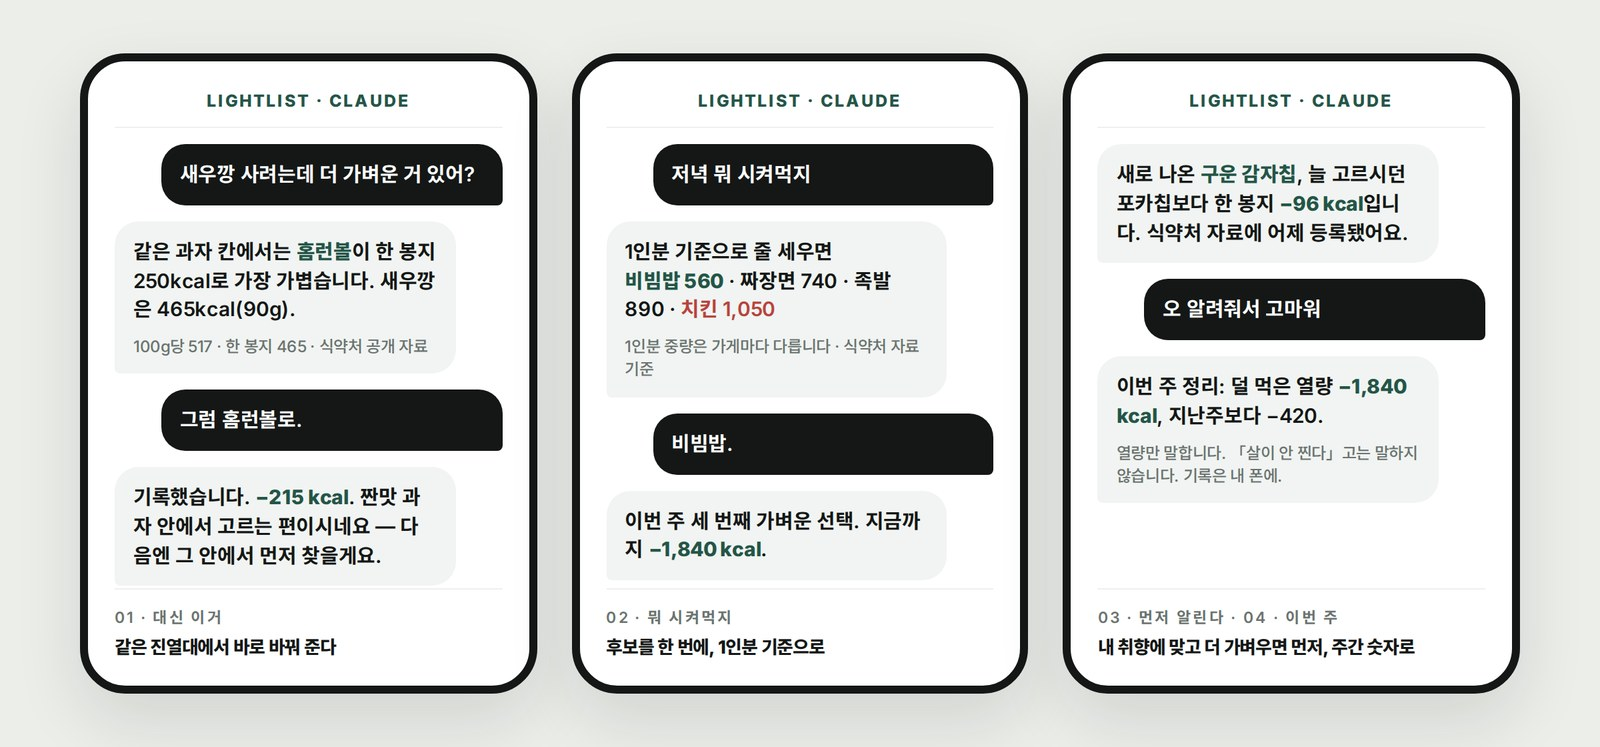
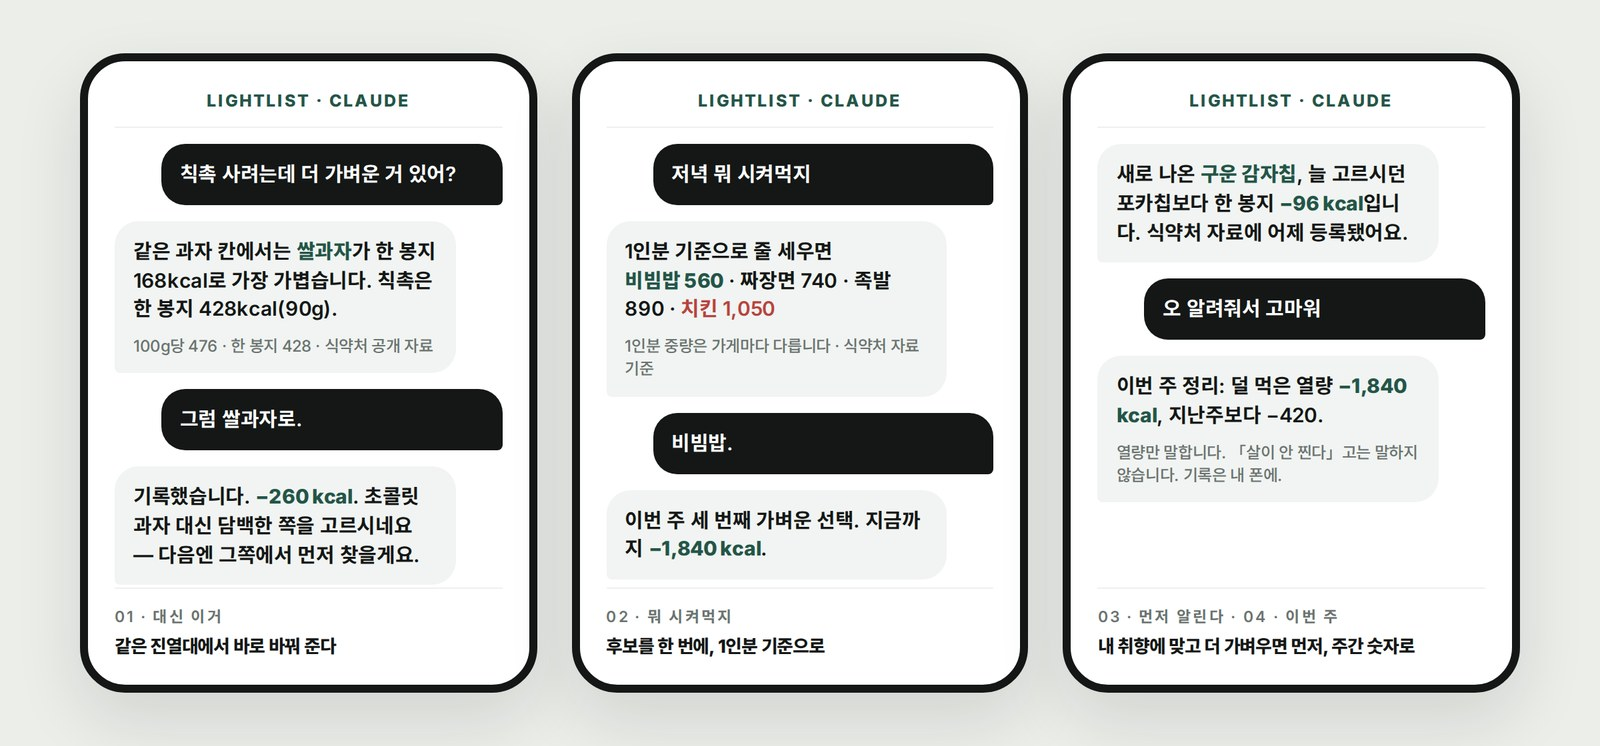
Light 소개문·02 그래픽 중복 제거, EN 그래픽
Claude-Session: https://claude.ai/code/session_01WsGPQczCo9oamQacoYURTj

diff --git a/en/products/light/index.html b/en/products/light/index.html
@@ -1,4 +1,7 @@
-<!doctype html><html lang="en"><head><meta charset="utf-8"><meta name="viewport" content="width=device-width,initial-scale=1"><title>AP Light — AP Holdings</title><meta name="description" content="Personal criteria. Candidate comparison. Explainable trade-offs."><meta name="robots" content="index,follow"><link rel="canonical" href="https://www.apholdings.kr/en/products/light/"><link rel="alternate" hreflang="ko" href="https://www.apholdings.kr/ko/products/light/"><link rel="alternate" hreflang="en" href="https://www.apholdings.kr/en/products/light/"><link rel="alternate" hreflang="x-default" href="https://www.apholdings.kr/en/products/light/"><meta property="og:type" content="website"><meta property="og:site_name" content="AP Holdings"><meta property="og:title" content="AP Light — AP Holdings"><meta property="og:description" content="Personal criteria. Candidate comparison. Explainable trade-offs."><meta property="og:url" content="https://www.apholdings.kr/en/products/light/"><meta property="og:locale" content="en_US"><meta name="theme-color" content="#ffffff"><link rel="icon" href="/img/ap_mark.png"><link rel="stylesheet" href="/assets/v2/site.css?v=2.8"><script defer src="/assets/v2/site.js?v=2.4"></script><script type="application/ld+json">{"@context": "https://schema.org", "@type": "Organization", "name": "AP Holdings", "url": "https://www.apholdings.kr", "logo": "https://www.apholdings.kr/img/ap_mark.png", "description": "Personal criteria. Candidate comparison. Explainable trade-offs.", "email": "cksals00@gmail.com", "sameAs": ["https://www.instagram.com/lia_park55/", "https://www.tiktok.com/@lia_park55"]}</script></head><body id="top"><a class="skip" href="#main">Skip to content</a><header class="site-header"><div class="wrap header-inner"><a class="brand" href="/en/" aria-label="AP Holdings home"><span class="brand-mark"><img src="/img/ap_mark.png" alt="" width="29" height="14"></span>AP HOLDINGS</a><nav class="desktop-nav" aria-label="Main"><a href="/en/#businesses">Services</a><a href="/en/#portfolio">Products</a><a href="/en/about/">About</a><a href="/en/ir/" class="ir-link">Investors</a><a href="/en/#contact">Contact</a></nav><details class="language"><summary aria-label="Language">EN</summary><ul><li><a href="/ko/products/light/" lang="ko">한국어</a></li><li><a href="/en/products/light/" lang="en" aria-current="page">English</a></li><li><a href="/vi/" lang="vi">Tiếng Việt<small>In preparation</small></a></li><li><a href="/ja/" lang="ja">日本語<small>In preparation</small></a></li><li><a href="/zh-cn/" lang="zh-cn">简体中文<small>In preparation</small></a></li><li><a href="/fr/" lang="fr">Français<small>In preparation</small></a></li></ul></details><details class="mobile-menu"><summary>Menu</summary><nav aria-label="Mobile"><a href="/en/#businesses">Services</a><a href="/en/#portfolio">Products</a><a href="/en/about/">About</a><a href="/en/ir/" class="ir-link">Investors</a><a href="/en/#contact">Contact</a></nav></details></div></header><main id="main"><section class="page-hero"><div class="wrap"><div class="breadcrumb"><a class="" href="/en/#portfolio">Products</a> / AP Light</div><span class="status">In development</span><h1 class="product-name">AP Light</h1><h2>Understand what fits you.</h2><p class="lead">Personal criteria. Candidate comparison. Explainable trade-offs.</p></div></section><section class="section"><div class="wrap"><figure style="margin:0 0 45px"><div class="product-media" style="background:transparent;padding:0"><video autoplay muted loop playsinline preload="metadata" poster="/media/lightlist_frame.jpg" src="/media/lightlist_hero.mp4" aria-label="AP Light" style="width:100%;border-radius:24px"></video></div></figure><div class="product-body" hidden><div class="actions"><a class="button" href="/business/lightlist-connect.html">Existing connector access</a></div></div></div></section><section class="section anchor" id="scene"><div class="wrap"><div class="section-intro"><div><span class="number">01 · One scene</span><h2>Buying Saewookkang —
+<!doctype html><html lang="en"><head><meta charset="utf-8"><meta name="viewport" content="width=device-width,initial-scale=1"><title>AP Light — AP Holdings</title><meta name="description" content="How many calories in the bag you&#x27;re about to buy.
+And the lighter option on the same shelf."><meta name="robots" content="index,follow"><link rel="canonical" href="https://www.apholdings.kr/en/products/light/"><link rel="alternate" hreflang="ko" href="https://www.apholdings.kr/ko/products/light/"><link rel="alternate" hreflang="en" href="https://www.apholdings.kr/en/products/light/"><link rel="alternate" hreflang="x-default" href="https://www.apholdings.kr/en/products/light/"><meta property="og:type" content="website"><meta property="og:site_name" content="AP Holdings"><meta property="og:title" content="AP Light — AP Holdings"><meta property="og:description" content="How many calories in the bag you&#x27;re about to buy.
+And the lighter option on the same shelf."><meta property="og:url" content="https://www.apholdings.kr/en/products/light/"><meta property="og:locale" content="en_US"><meta name="theme-color" content="#ffffff"><link rel="icon" href="/img/ap_mark.png"><link rel="stylesheet" href="/assets/v2/site.css?v=2.8"><script defer src="/assets/v2/site.js?v=2.4"></script><script type="application/ld+json">{"@context": "https://schema.org", "@type": "Organization", "name": "AP Holdings", "url": "https://www.apholdings.kr", "logo": "https://www.apholdings.kr/img/ap_mark.png", "description": "How many calories in the bag you're about to buy.\nAnd the lighter option on the same shelf.", "email": "cksals00@gmail.com", "sameAs": ["https://www.instagram.com/lia_park55/", "https://www.tiktok.com/@lia_park55"]}</script></head><body id="top"><a class="skip" href="#main">Skip to content</a><header class="site-header"><div class="wrap header-inner"><a class="brand" href="/en/" aria-label="AP Holdings home"><span class="brand-mark"><img src="/img/ap_mark.png" alt="" width="29" height="14"></span>AP HOLDINGS</a><nav class="desktop-nav" aria-label="Main"><a href="/en/#businesses">Services</a><a href="/en/#portfolio">Products</a><a href="/en/about/">About</a><a href="/en/ir/" class="ir-link">Investors</a><a href="/en/#contact">Contact</a></nav><details class="language"><summary aria-label="Language">EN</summary><ul><li><a href="/ko/products/light/" lang="ko">한국어</a></li><li><a href="/en/products/light/" lang="en" aria-current="page">English</a></li><li><a href="/vi/" lang="vi">Tiếng Việt<small>In preparation</small></a></li><li><a href="/ja/" lang="ja">日本語<small>In preparation</small></a></li><li><a href="/zh-cn/" lang="zh-cn">简体中文<small>In preparation</small></a></li><li><a href="/fr/" lang="fr">Français<small>In preparation</small></a></li></ul></details><details class="mobile-menu"><summary>Menu</summary><nav aria-label="Mobile"><a href="/en/#businesses">Services</a><a href="/en/#portfolio">Products</a><a href="/en/about/">About</a><a href="/en/ir/" class="ir-link">Investors</a><a href="/en/#contact">Contact</a></nav></details></div></header><main id="main"><section class="page-hero"><div class="wrap"><div class="breadcrumb"><a class="" href="/en/#portfolio">Products</a> / AP Light</div><span class="status">In development</span><h1 class="product-name">AP Light</h1><h2>Understand what fits you.</h2><p class="lead">How many calories in the bag you&#x27;re about to buy.
+And the lighter option on the same shelf.</p></div></section><section class="section"><div class="wrap"><figure style="margin:0 0 45px"><div class="product-media" style="background:transparent;padding:0"><video autoplay muted loop playsinline preload="metadata" poster="/media/lightlist_frame.jpg" src="/media/lightlist_hero.mp4" aria-label="AP Light" style="width:100%;border-radius:24px"></video></div></figure><div class="product-body" hidden><div class="actions"><a class="button" href="/business/lightlist-connect.html">Existing connector access</a></div></div></div></section><section class="section anchor" id="scene"><div class="wrap"><div class="section-intro"><div><span class="number">01 · One scene</span><h2>Buying Saewookkang —
 anything lighter?</h2></div><div class="intro-side"><p>Any AI asks LightList first instead of guessing. Calories per 100g and per bag, always together.</p></div></div><figure style="margin:0 0 45px"><div class="product-media" style="background:transparent;padding:0"><img src="/media/gfx/light_scene_en.jpg" alt="One sentence → AI → LightList weighs per 100g and per bag together → the lighter pick" width="1600" height="900" loading="lazy" style="width:100%;max-height:none;border-radius:24px"></div></figure></div></section><section class="section soft anchor" id="learn"><div class="wrap"><div class="section-intro"><div><span class="number">02 · The more you choose</span><h2>The more you choose,
-the sooner it suggests.</h2></div><div class="intro-side"><p>As lighter picks accumulate, the AI learns your taste and calorie budget. It picks for you, ranks, and tells you first.</p><p class="note">Calories only · records stay on my phone · never says “you won&#x27;t gain weight”</p></div></div><figure style="margin:0 0 45px"><div class="product-media" style="background:transparent;padding:0"><img src="/media/gfx/light_learn.jpg" alt="LightList conversations — swap it · what to order · told first · this week&#x27;s numbers" width="1600" height="900" loading="lazy" style="width:100%;max-height:none;border-radius:24px"></div></figure></div></section><section class="section soft anchor" id="today"><div class="wrap"><div class="cta-block"><span class="number">03 · Today</span><h2>Today, in Claude.</h2><p>One line of address connects it to Claude.
+the sooner it suggests.</h2></div><div class="intro-side"><p>As lighter picks accumulate, the AI learns your taste and calorie budget. It picks for you, ranks, and tells you first.</p><p class="note">Calories only · records stay on my phone · never says “you won&#x27;t gain weight”</p></div></div><figure style="margin:0 0 45px"><div class="product-media" style="background:transparent;padding:0"><img src="/media/gfx/light_learn_en.jpg" alt="LightList conversations — swap it · what to order · told first · this week&#x27;s numbers" width="1600" height="900" loading="lazy" style="width:100%;max-height:none;border-radius:24px"></div></figure></div></section><section class="section soft anchor" id="today"><div class="wrap"><div class="cta-block"><span class="number">03 · Today</span><h2>Today, in Claude.</h2><p>One line of address connects it to Claude.
 Calories per 100g and per bag, always together.</p><div class="actions"><a class="button primary" href="/business/lightlist-connect.html">Connect to Claude</a><a class="button" href="/ko/products/safe/">Allergens and avoid lists: AP Safe</a></div><p class="note">App · ChatGPT · Gemini — coming later</p></div></div></section></main><footer class="site-footer"><div class="wrap"><div class="footer-contact" id="contact"><div><span class="eyebrow">CONTACT</span><h3>Build with AP.</h3><p>Let’s discuss product and technology, expert advisory, brand and commerce, global distribution, education and content, craft and artist collaboration, and pilots.</p></div><div><a class="contact-email" href="mailto:cksals00@gmail.com">cksals00@gmail.com</a><a class="button primary" href="mailto:cksals00@gmail.com?subject=%5BAP%20Holdings%5D%20Partnership%20enquiry">Contact AP Holdings</a></div></div><div class="footer-top"><a class="brand" href="/en/" aria-label="AP Holdings home"><span class="brand-mark"><img src="/img/ap_mark.png" alt="" width="29" height="14"></span>AP HOLDINGS</a><div class="footer-map"><div><b>AP Holdings</b><a class="" href="/en/about/">About</a><a class="" href="/en/ir/">IR / INVESTORS</a><a class="" href="/en/lab/">Founder’s Lab</a></div><div><b>Decision Intelligence</b><a class="" href="/en/products/safe/">AP Safe</a><a class="" href="/en/products/light/">AP Light</a><a class="" href="/en/products/revenue/">AP Revenue</a><a class="" href="/en/products/travel/">AP Travel</a></div><div><b>Commerce</b><a class="" href="/en/products/select/">AP SELECT</a><a class="" href="/en/products/commerce/">Global K-Commerce</a><a class="" href="/en/products/liaselect/">Lia Select</a><a class="" href="/en/products/craft/">AP K-Craft</a><a class="" href="/en/products/lia/">LIA</a></div><div><b>Play &amp; Learn</b><a class="" href="/en/products/rgrg/">RGRG</a><a class="" href="/en/products/cubs/">Hangeul Cubs</a><a class="" href="/en/products/lastwave/">LAST WAVE</a></div><div><b>Connectors</b><a class="" href="/business/safelist-connect.html">Safelist · Claude</a><a class="" href="/business/lightlist-connect.html">Lightlist · Claude</a></div></div></div><ul class="footer-policies" aria-label="Privacy policies"><li class="pol-label">App privacy policies</li><li><a class="" href="/safelist/privacy.html">Safelist</a></li><li><a class="" href="/hangeulcubs_privacy.html">Hangeul Cubs</a></li><li><a class="" href="/rgrg/privacy.html">RGRG</a></li><li><a class="" href="/irongrade/privacy.html">IRON GRADE</a></li><li><a class="" href="/theotherhours_privacy.html">The Other Hours</a></li><li><a class="" href="/kfan_privacy.html">K-Concert Trip</a></li><li><a class="" href="/privacy.html">나의 첫투자</a></li><li><a class="" href="/kscan/privacy.html">K-Scan</a></li><li><a class="" href="/goyo/privacy.html">Goyo</a></li></ul><div class="footer-bottom"><span>© 2026 AP Holdings. All rights reserved.</span><span>Built in Korea. Designed for the world.</span><a class="" href="#top">Back to top</a></div></div></footer></body></html>

diff --git a/ko/products/light/index.html b/ko/products/light/index.html
@@ -1,4 +1,7 @@
-<!doctype html><html lang="ko"><head><meta charset="utf-8"><meta name="viewport" content="width=device-width,initial-scale=1"><title>AP Light — AP Holdings</title><meta name="description" content="개인별 선택 기준. 후보 비교. 설명 가능한 Trade-off."><meta name="robots" content="index,follow"><link rel="canonical" href="https://www.apholdings.kr/ko/products/light/"><link rel="alternate" hreflang="ko" href="https://www.apholdings.kr/ko/products/light/"><link rel="alternate" hreflang="en" href="https://www.apholdings.kr/en/products/light/"><link rel="alternate" hreflang="x-default" href="https://www.apholdings.kr/en/products/light/"><meta property="og:type" content="website"><meta property="og:site_name" content="AP Holdings"><meta property="og:title" content="AP Light — AP Holdings"><meta property="og:description" content="개인별 선택 기준. 후보 비교. 설명 가능한 Trade-off."><meta property="og:url" content="https://www.apholdings.kr/ko/products/light/"><meta property="og:locale" content="ko_KR"><meta name="theme-color" content="#ffffff"><link rel="icon" href="/img/ap_mark.png"><link rel="preconnect" href="https://fonts.googleapis.com"><link rel="preconnect" href="https://fonts.gstatic.com" crossorigin><link href="https://fonts.googleapis.com/css2?family=Noto+Sans+KR:wght@400;500;600;700&amp;display=swap" rel="stylesheet"><link rel="stylesheet" href="/assets/v2/site.css?v=2.8"><script defer src="/assets/v2/site.js?v=2.4"></script><script type="application/ld+json">{"@context": "https://schema.org", "@type": "Organization", "name": "AP Holdings", "url": "https://www.apholdings.kr", "logo": "https://www.apholdings.kr/img/ap_mark.png", "description": "개인별 선택 기준. 후보 비교. 설명 가능한 Trade-off.", "email": "cksals00@gmail.com", "sameAs": ["https://www.instagram.com/lia_park55/", "https://www.tiktok.com/@lia_park55"]}</script></head><body id="top"><a class="skip" href="#main">본문으로 이동</a><header class="site-header"><div class="wrap header-inner"><a class="brand" href="/ko/" aria-label="AP Holdings home"><span class="brand-mark"><img src="/img/ap_mark.png" alt="" width="29" height="14"></span>AP HOLDINGS</a><nav class="desktop-nav" aria-label="Main"><a href="/ko/#businesses">서비스</a><a href="/ko/#portfolio">제품</a><a href="/ko/about/">회사 소개</a><a href="/ko/ir/" class="ir-link">투자자</a><a href="/ko/#contact">협력 문의</a></nav><details class="language"><summary aria-label="언어">KO</summary><ul><li><a href="/ko/products/light/" lang="ko" aria-current="page">한국어</a></li><li><a href="/en/products/light/" lang="en">English</a></li><li><a href="/vi/" lang="vi">Tiếng Việt<small>In preparation</small></a></li><li><a href="/ja/" lang="ja">日本語<small>In preparation</small></a></li><li><a href="/zh-cn/" lang="zh-cn">简体中文<small>In preparation</small></a></li><li><a href="/fr/" lang="fr">Français<small>In preparation</small></a></li></ul></details><details class="mobile-menu"><summary>메뉴</summary><nav aria-label="Mobile"><a href="/ko/#businesses">서비스</a><a href="/ko/#portfolio">제품</a><a href="/ko/about/">회사 소개</a><a href="/ko/ir/" class="ir-link">투자자</a><a href="/ko/#contact">협력 문의</a></nav></details></div></header><main id="main"><section class="page-hero"><div class="wrap"><div class="breadcrumb"><a class="" href="/ko/#portfolio">제품</a> / AP Light</div><span class="status">개발 중</span><h1 class="product-name">AP Light</h1><h2>Understand what fits you.</h2><p class="lead">개인별 선택 기준. 후보 비교. 설명 가능한 Trade-off.</p></div></section><section class="section"><div class="wrap"><figure style="margin:0 0 45px"><div class="product-media" style="background:transparent;padding:0"><video autoplay muted loop playsinline preload="metadata" poster="/media/lightlist_frame.jpg" src="/media/lightlist_hero.mp4" aria-label="AP Light" style="width:100%;border-radius:24px"></video></div></figure><div class="product-body" hidden><div class="actions"><a class="button" href="/business/lightlist-connect.html">기존 커넥터 연결</a></div></div></div></section><section class="section anchor" id="scene"><div class="wrap"><div class="section-intro"><div><span class="number">01 · 한 장면</span><h2>새우깡 사려는데,
+<!doctype html><html lang="ko"><head><meta charset="utf-8"><meta name="viewport" content="width=device-width,initial-scale=1"><title>AP Light — AP Holdings</title><meta name="description" content="사려는 과자, 한 봉지에 몇 칼로리인지.
+같은 진열대에서 더 가벼운 것까지."><meta name="robots" content="index,follow"><link rel="canonical" href="https://www.apholdings.kr/ko/products/light/"><link rel="alternate" hreflang="ko" href="https://www.apholdings.kr/ko/products/light/"><link rel="alternate" hreflang="en" href="https://www.apholdings.kr/en/products/light/"><link rel="alternate" hreflang="x-default" href="https://www.apholdings.kr/en/products/light/"><meta property="og:type" content="website"><meta property="og:site_name" content="AP Holdings"><meta property="og:title" content="AP Light — AP Holdings"><meta property="og:description" content="사려는 과자, 한 봉지에 몇 칼로리인지.
+같은 진열대에서 더 가벼운 것까지."><meta property="og:url" content="https://www.apholdings.kr/ko/products/light/"><meta property="og:locale" content="ko_KR"><meta name="theme-color" content="#ffffff"><link rel="icon" href="/img/ap_mark.png"><link rel="preconnect" href="https://fonts.googleapis.com"><link rel="preconnect" href="https://fonts.gstatic.com" crossorigin><link href="https://fonts.googleapis.com/css2?family=Noto+Sans+KR:wght@400;500;600;700&amp;display=swap" rel="stylesheet"><link rel="stylesheet" href="/assets/v2/site.css?v=2.8"><script defer src="/assets/v2/site.js?v=2.4"></script><script type="application/ld+json">{"@context": "https://schema.org", "@type": "Organization", "name": "AP Holdings", "url": "https://www.apholdings.kr", "logo": "https://www.apholdings.kr/img/ap_mark.png", "description": "사려는 과자, 한 봉지에 몇 칼로리인지.\n같은 진열대에서 더 가벼운 것까지.", "email": "cksals00@gmail.com", "sameAs": ["https://www.instagram.com/lia_park55/", "https://www.tiktok.com/@lia_park55"]}</script></head><body id="top"><a class="skip" href="#main">본문으로 이동</a><header class="site-header"><div class="wrap header-inner"><a class="brand" href="/ko/" aria-label="AP Holdings home"><span class="brand-mark"><img src="/img/ap_mark.png" alt="" width="29" height="14"></span>AP HOLDINGS</a><nav class="desktop-nav" aria-label="Main"><a href="/ko/#businesses">서비스</a><a href="/ko/#portfolio">제품</a><a href="/ko/about/">회사 소개</a><a href="/ko/ir/" class="ir-link">투자자</a><a href="/ko/#contact">협력 문의</a></nav><details class="language"><summary aria-label="언어">KO</summary><ul><li><a href="/ko/products/light/" lang="ko" aria-current="page">한국어</a></li><li><a href="/en/products/light/" lang="en">English</a></li><li><a href="/vi/" lang="vi">Tiếng Việt<small>In preparation</small></a></li><li><a href="/ja/" lang="ja">日本語<small>In preparation</small></a></li><li><a href="/zh-cn/" lang="zh-cn">简体中文<small>In preparation</small></a></li><li><a href="/fr/" lang="fr">Français<small>In preparation</small></a></li></ul></details><details class="mobile-menu"><summary>메뉴</summary><nav aria-label="Mobile"><a href="/ko/#businesses">서비스</a><a href="/ko/#portfolio">제품</a><a href="/ko/about/">회사 소개</a><a href="/ko/ir/" class="ir-link">투자자</a><a href="/ko/#contact">협력 문의</a></nav></details></div></header><main id="main"><section class="page-hero"><div class="wrap"><div class="breadcrumb"><a class="" href="/ko/#portfolio">제품</a> / AP Light</div><span class="status">개발 중</span><h1 class="product-name">AP Light</h1><h2>Understand what fits you.</h2><p class="lead">사려는 과자, 한 봉지에 몇 칼로리인지.
+같은 진열대에서 더 가벼운 것까지.</p></div></section><section class="section"><div class="wrap"><figure style="margin:0 0 45px"><div class="product-media" style="background:transparent;padding:0"><video autoplay muted loop playsinline preload="metadata" poster="/media/lightlist_frame.jpg" src="/media/lightlist_hero.mp4" aria-label="AP Light" style="width:100%;border-radius:24px"></video></div></figure><div class="product-body" hidden><div class="actions"><a class="button" href="/business/lightlist-connect.html">기존 커넥터 연결</a></div></div></div></section><section class="section anchor" id="scene"><div class="wrap"><div class="section-intro"><div><span class="number">01 · 한 장면</span><h2>새우깡 사려는데,
 더 가벼운 거 있어?</h2></div><div class="intro-side"><p>어림짐작 대신
 라이트리스트에 먼저 묻는다.
 열량은 100g당과 한 봉지, 항상 함께.</p></div></div><figure style="margin:0 0 45px"><div class="product-media" style="background:transparent;padding:0"><img src="/media/gfx/light_scene.jpg" alt="말 한마디 → AI → 라이트리스트가 100g당과 한 봉지를 함께 재고 → 덜 무거운 후보" width="1600" height="900" loading="lazy" style="width:100%;max-height:none;border-radius:24px"></div></figure></div></section><section class="section soft anchor" id="learn"><div class="wrap"><div class="section-intro"><div><span class="number">02 · 고를수록</span><h2>고를수록,
